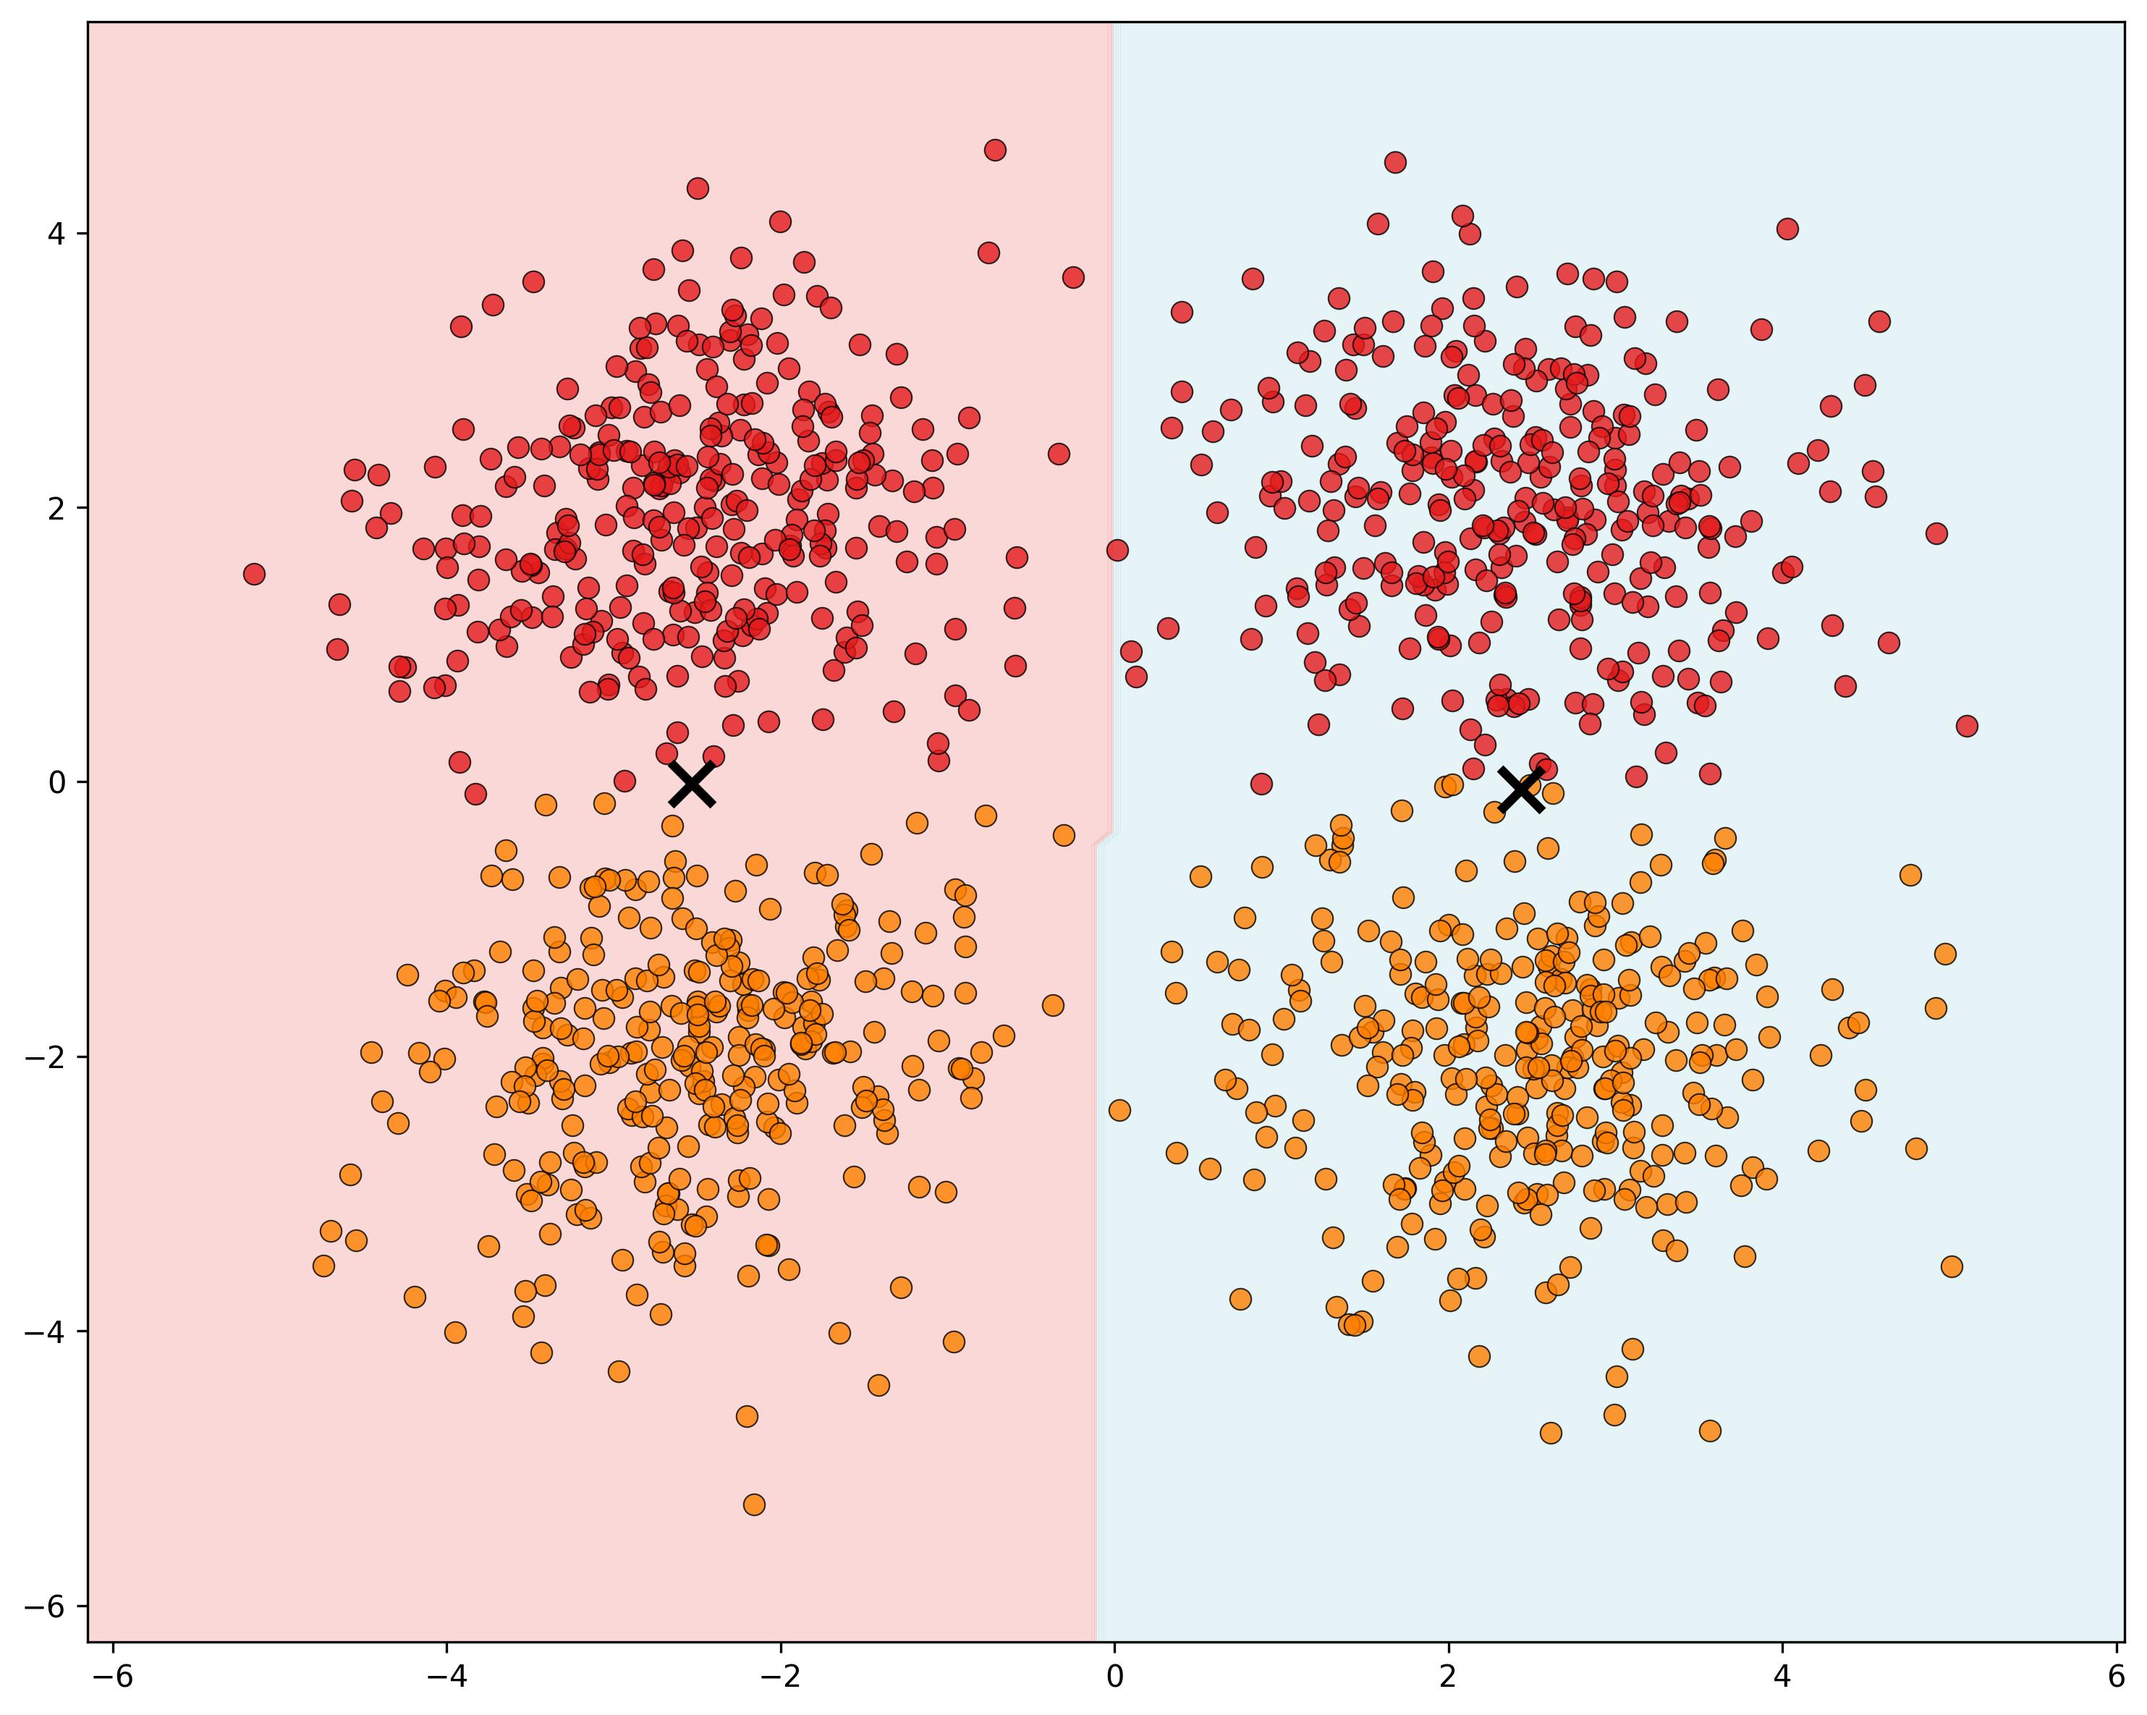
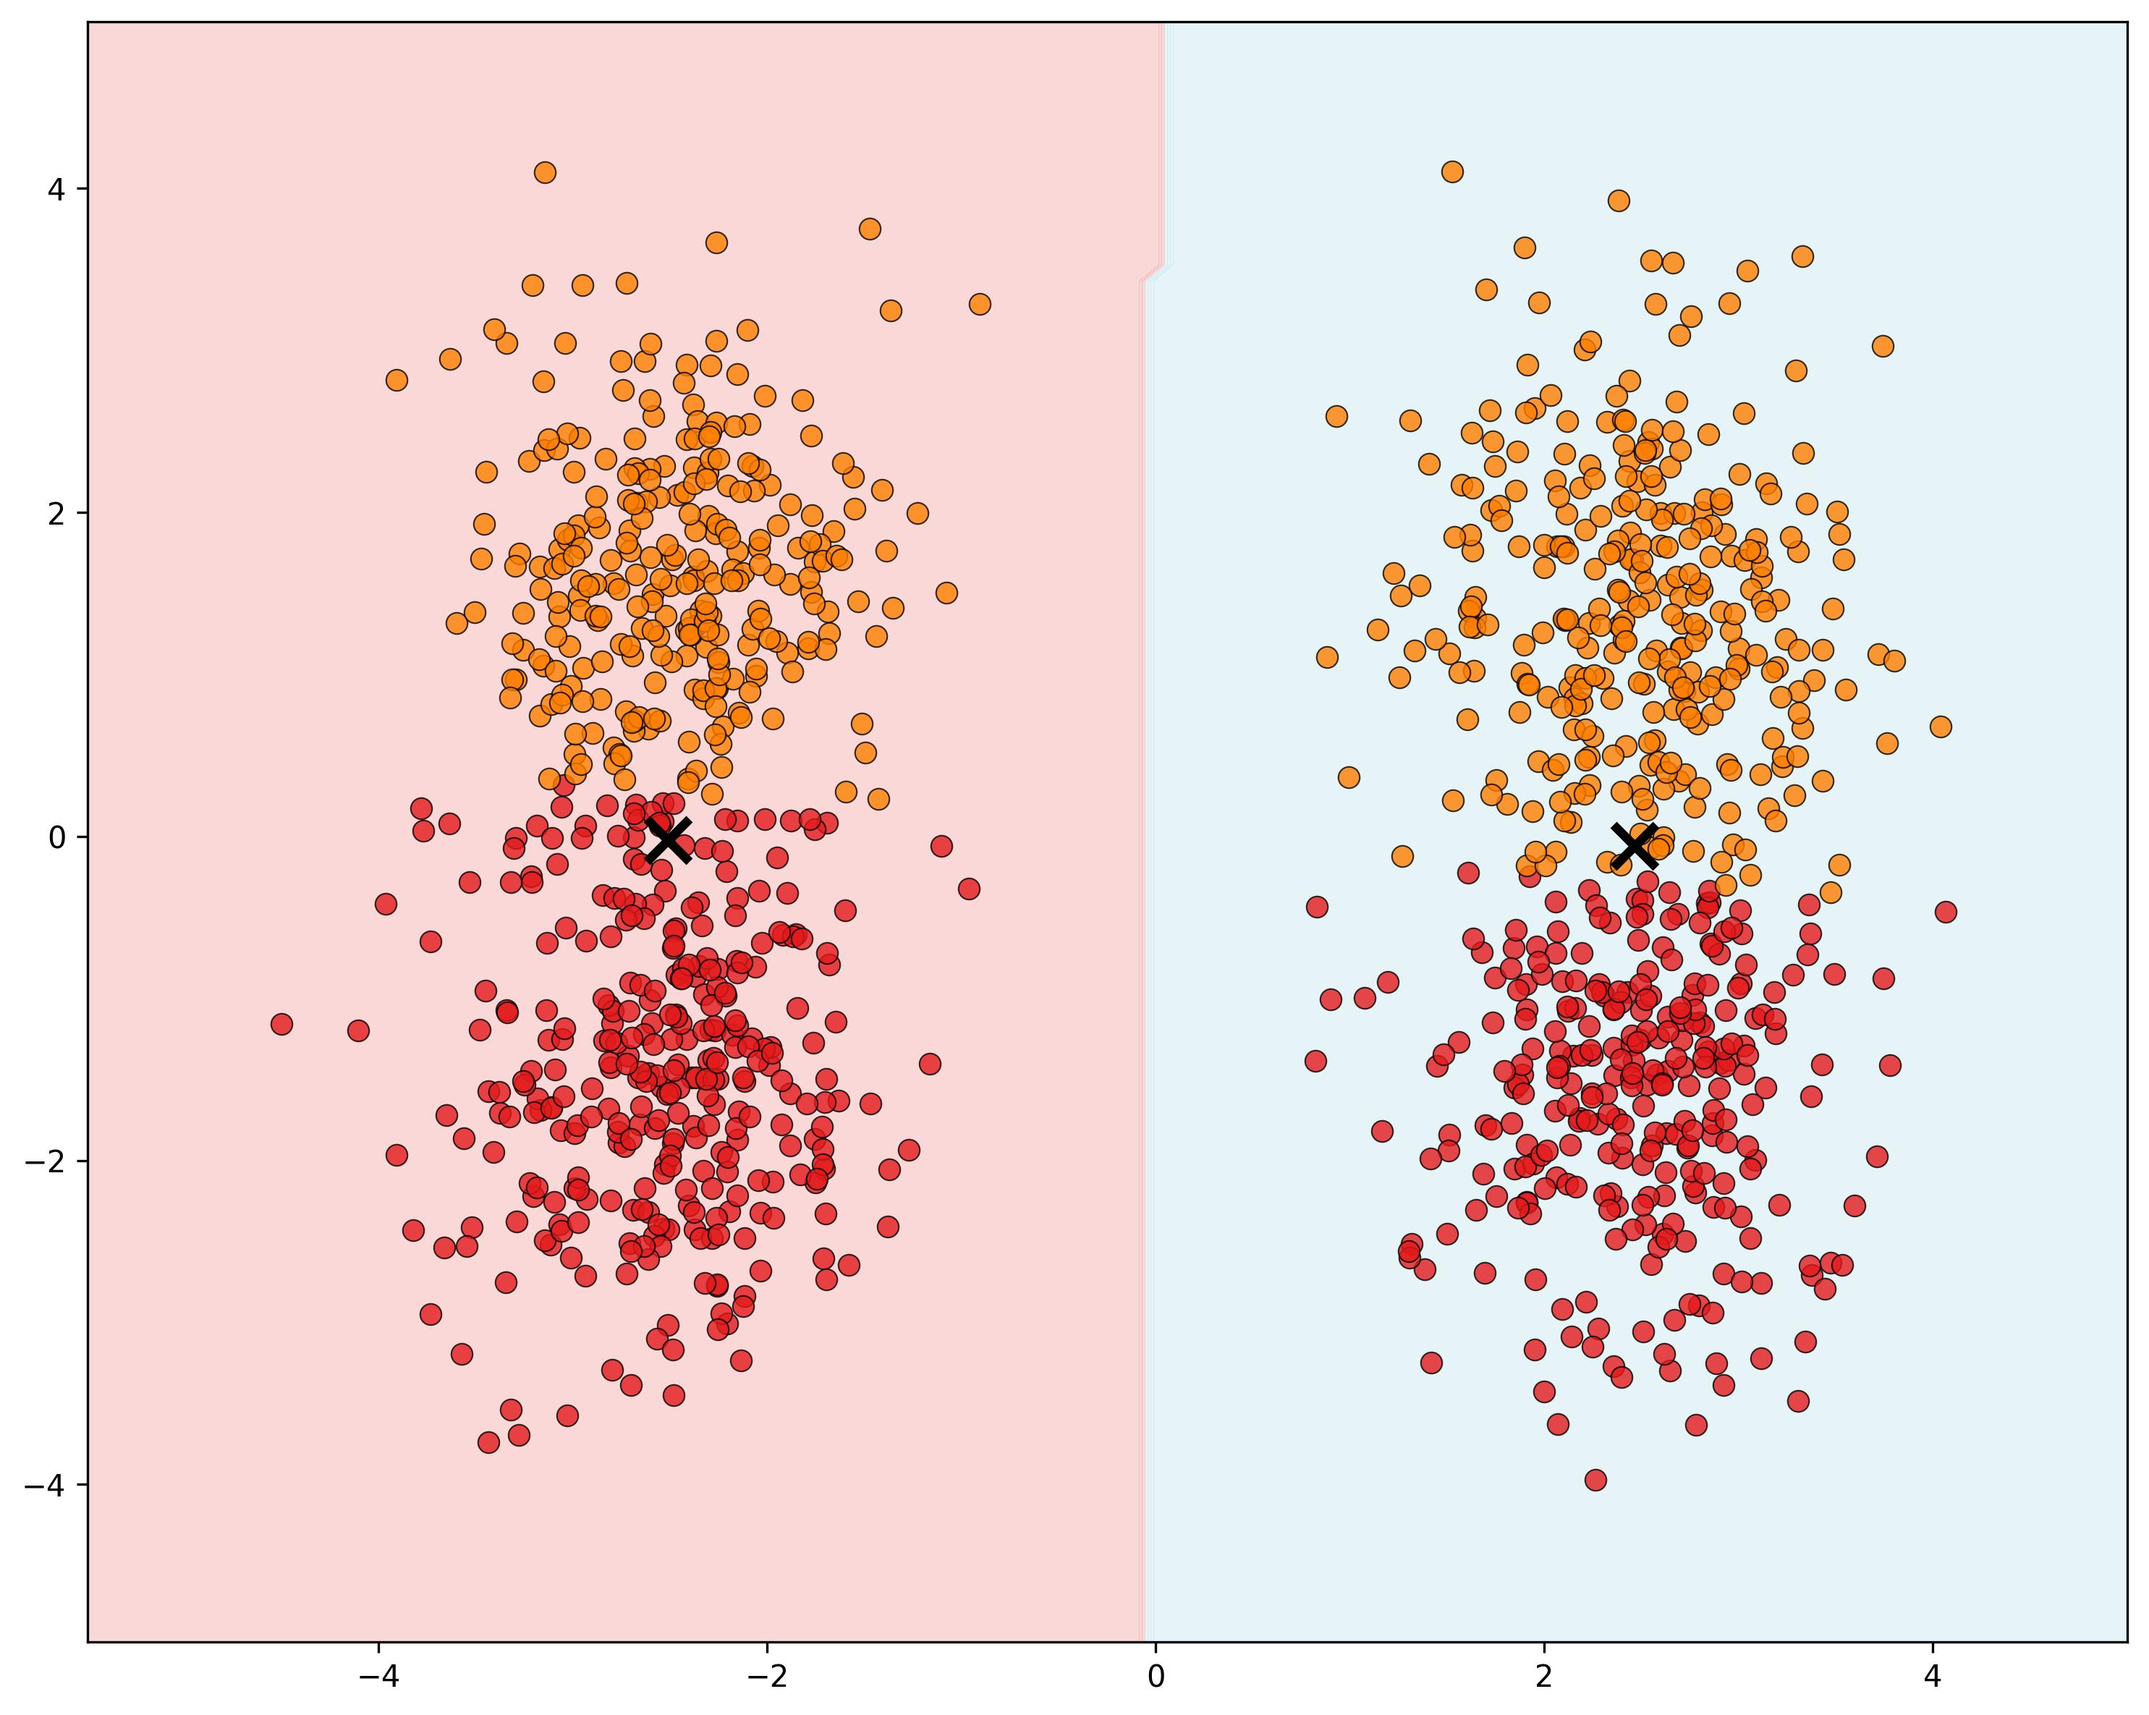
init_bias

diff --git a/kmeans/dataset_construction/initilization_bias.py b/kmeans/dataset_construction/initilization_bias.py
@@ -3,27 +3,29 @@ from scipy.io import savemat
 
 rng = np.random.default_rng(42)
 
-# -----------------------------
-# 类 1：左侧两个上下排列的子簇（共 600 点）
-# -----------------------------
-mean1_upper = [-2.5,  2]   # 左上，更靠左
-mean1_lower = [-2.5, -2]   # 左下
-cov1 = 0.8 * np.eye(2)
-
-class1_upper = rng.multivariate_normal(mean1_upper, cov1, 300)
-class1_lower = rng.multivariate_normal(mean1_lower, cov1, 300)
-class1 = np.vstack([class1_upper, class1_lower])  # 600 点
+# 使用各向异性协方差：纵向更扩散，增强“上下”感知
+cov = np.array([[0.3, 0.0],
+                [0.0, 0.8]])  # y 方向方差更大
 
 # -----------------------------
-# 类 2：右侧两个上下排列的子簇（共 600 点）
+# 类 1：左侧类，上下两个子簇
 # -----------------------------
-mean2_upper = [2.5,  2]    # 右上，更靠右
-mean2_lower = [2.5, -2]    # 右下
-cov2 = 0.8 * np.eye(2)
+mean1_upper = [-2.5,  1.5]
+mean1_lower = [-2.5, -1.5]
 
-class2_upper = rng.multivariate_normal(mean2_upper, cov2, 300)
-class2_lower = rng.multivariate_normal(mean2_lower, cov2, 300)
-class2 = np.vstack([class2_upper, class2_lower])  # 600 点
+class1_upper = rng.multivariate_normal(mean1_upper, cov, 300)
+class1_lower = rng.multivariate_normal(mean1_lower, cov, 300)
+class1 = np.vstack([class1_upper, class1_lower])
+
+# -----------------------------
+# 类 2：右侧类，上下两个子簇
+# -----------------------------
+mean2_upper = [2.5,  1.5]
+mean2_lower = [2.5, -1.5]
+
+class2_upper = rng.multivariate_normal(mean2_upper, cov, 300)
+class2_lower = rng.multivariate_normal(mean2_lower, cov, 300)
+class2 = np.vstack([class2_upper, class2_lower])
 
 # -----------------------------
 # 合并数据和标签

diff --git a/kmeans/kmeans_init_bias.py b/kmeans/kmeans_init_bias.py
@@ -421,7 +421,7 @@ if __name__ == '__main__':
     x_key = 'data'
     y_key = 'class'
 
-    n_runs = 10
+    n_runs = 1
 
     # 处理单个数据集
     result = process_single_dataset(key, mat_file, x_key, y_key, n_runs)
